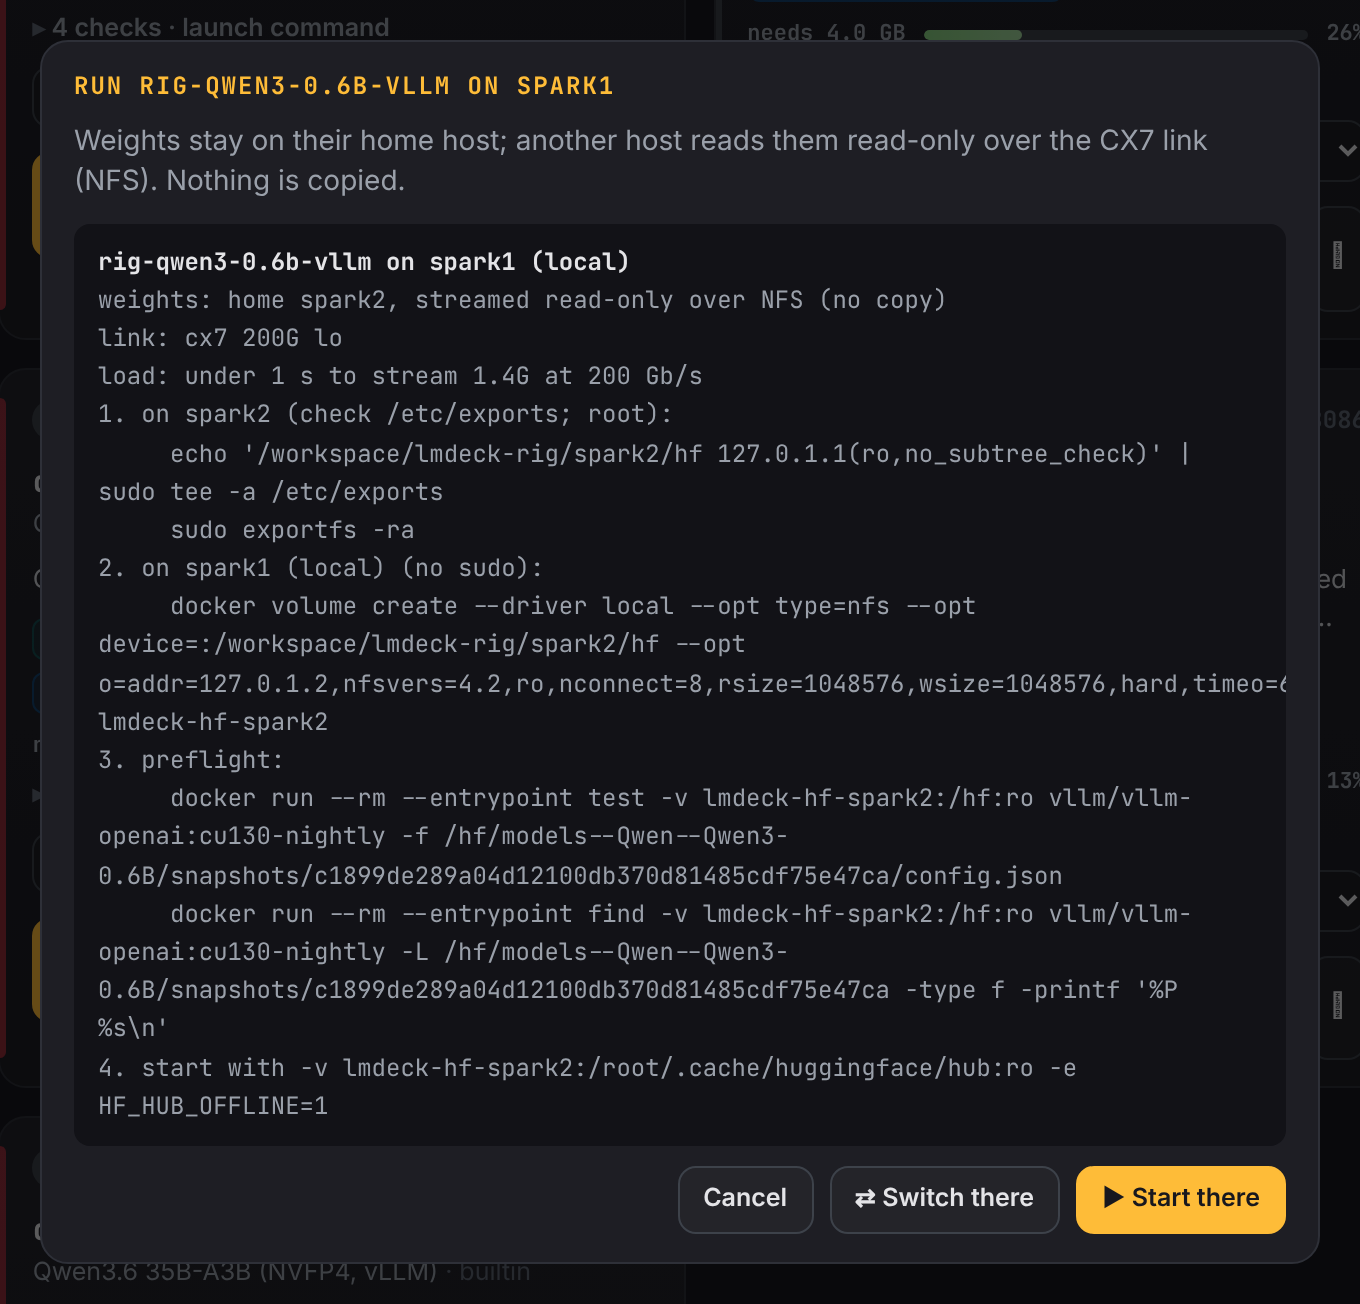
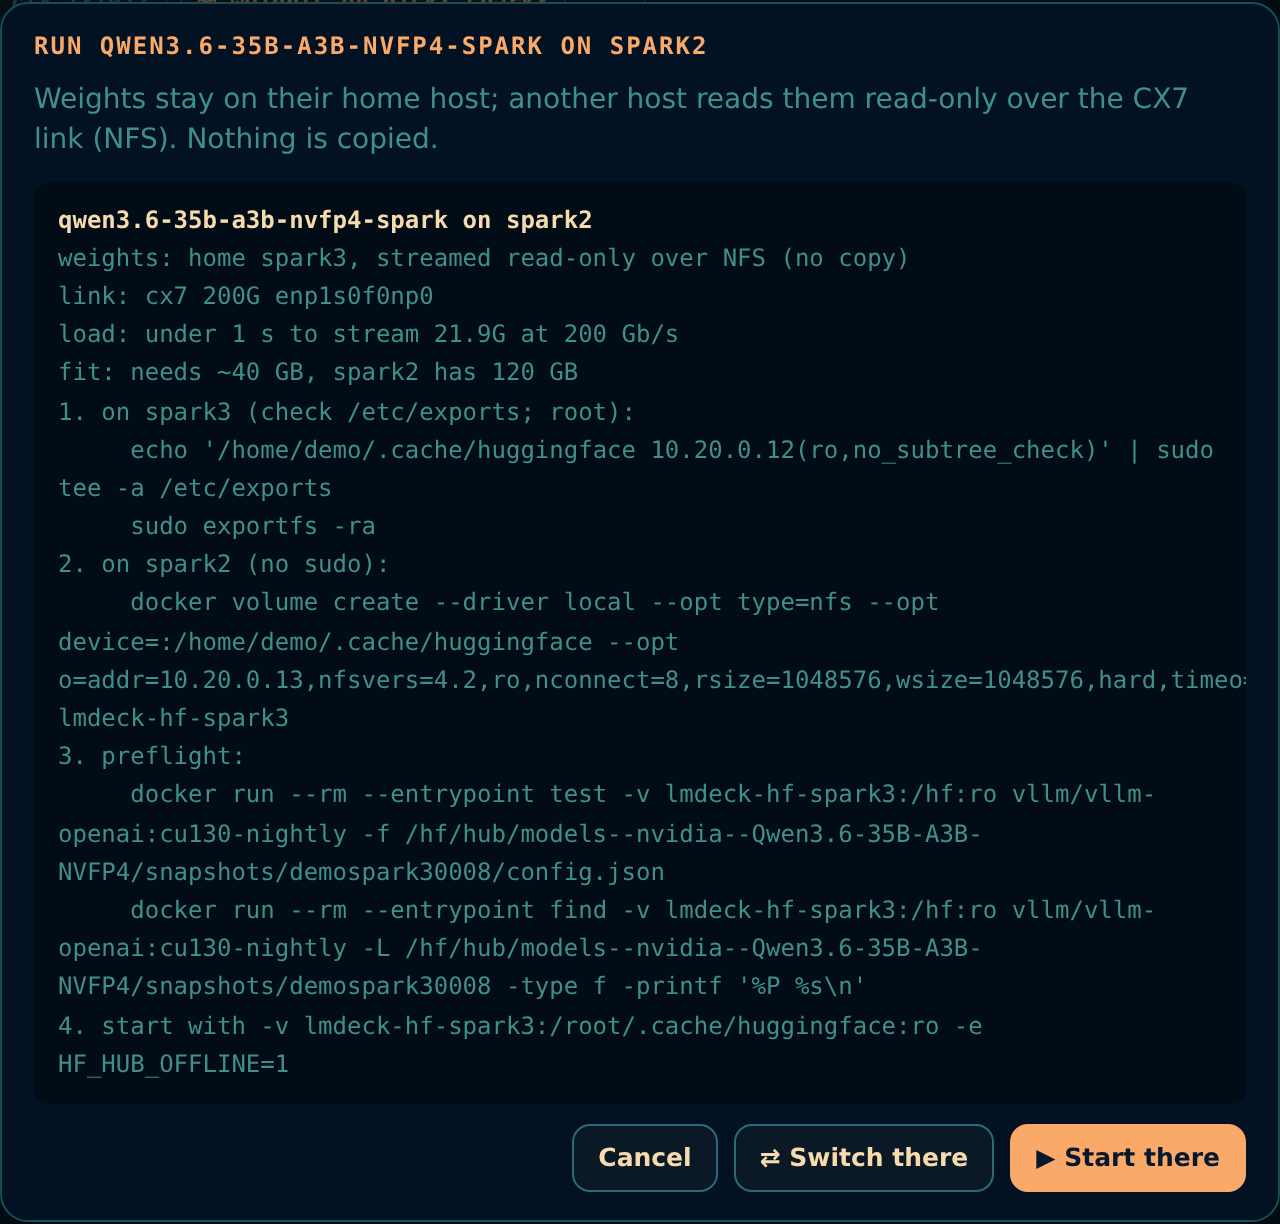
docs(screenshots): refresh the README set in Retro 82
Recapture the TUI and web dashboard screenshots with the new default
theme and a demo deck spanning DeepSeek, GLM, LiquidAI, Qwen,
javierbits, NVIDIA Nemotron, Gemma and GPT-OSS. A small custom stub
server provides the live telemetry and log lines.

Add Library, Stats, Weights, Sources and Doctor shots to the web
dashboard section, and update the demo-data note.

Fix the weights table's host column and hide the unlabeled hourly ticks
in the stats view.

diff --git a/src/web/index.html b/src/web/index.html
@@ -285,6 +285,7 @@ select.runon:hover{border-color:var(--violet)}
 .hours{display:grid;grid-template-columns:repeat(24,1fr);gap:2px;align-items:end;height:110px;padding-top:6px}
 .hours i{display:block;background:linear-gradient(180deg,var(--cyan),color-mix(in srgb,var(--cyan) 40%,transparent));border-radius:3px 3px 0 0;min-height:2px}
 .hourlbl{display:grid;grid-template-columns:repeat(24,1fr);font:9px var(--mono);color:var(--dim);text-align:center}
+.hourlbl span{visibility:hidden}
 .hourlbl span:nth-child(3n+1){visibility:visible}
 .utable{width:100%;border-collapse:collapse;font:12px var(--mono);table-layout:fixed}
 .utable th,.utable td{padding:5px 8px;border-top:1px solid var(--line);text-align:left;overflow:hidden;text-overflow:ellipsis;white-space:nowrap;max-width:0}
@@ -1658,7 +1659,7 @@ function renderWeights(){
   $("#weightsmeta").textContent = `${models.size} model${models.size === 1 ? "" : "s"} · ${hosts.length} host${hosts.length === 1 ? "" : "s"}${w.demo ? " · DEMO DATA" : ""}${w.at ? " · indexed " + ago(w.at) + " ago" : ""}`;
   $("#weightstable").innerHTML = models.size ? `<div class="tablewrap"><table class="utable"><tr><th style="width:30%">model</th><th style="width:16%">host</th><th style="width:11%">size</th><th style="width:10%">kind</th><th>path</th></tr>` +
     [...models.values()].map(m => m.rows.map((r, i) => `<tr><td class="${i ? "" : "n"}" title="${esc(m.model)}">${i ? "" : esc(m.model)}</td>
-      <td>${r.size ? (r.size < 1073741824 ? Math.round(r.size / 1048576) + " MB" : gb(r.size / 1073741824)) : "?"}</td><td>${esc(r.kind || "")}</td><td title="${esc(r.path || "")}">${esc(r.path || "")}</td></tr>`).join("")).join("") + `</table></div>`
+      <td>${esc(r.host)}</td><td>${r.size ? (r.size < 1073741824 ? Math.round(r.size / 1048576) + " MB" : gb(r.size / 1073741824)) : "?"}</td><td>${esc(r.kind || "")}</td><td title="${esc(r.path || "")}">${esc(r.path || "")}</td></tr>`).join("")).join("") + `</table></div>`
     : `<div class="empty">No weights indexed yet.<br><span class="dim">Run <span class="mono">lmdeck weights</span> or pull a recipe.</span></div>`;
 }
 $("#weightsrefresh").onclick = () => refreshWeights(true);

diff --git a/README.md b/README.md
@@ -385,6 +385,12 @@ from a CDN.
 
 ![web dashboard with the live log drawer](docs/screenshots/web-logs.png)
 
+| | |
+|---|---|
+| ![Library: the recipe index, install and add](docs/screenshots/web-library.png) | ![Stats: recorded token usage](docs/screenshots/web-stats.png) |
+| ![Weights: which host holds which checkpoint](docs/screenshots/web-weights.png) | ![Sources: add, update and remove recipe repos](docs/screenshots/web-sources.png) |
+| ![Doctor: hardware, engines, recipe errors and harness settings](docs/screenshots/web-doctor.png) | |
+
 Across machines (details in [docs/MULTIHOST.md](docs/MULTIHOST.md)): host cards
 have `≡` logs and `■` stop per model and a **run here** picker; recipe cards
 show **⛁ weights on disk: …**, `×N nodes` with the start order for multi-node
@@ -394,8 +400,8 @@ section draws the hosts and their CX7 / LAN / Tailscale links as an SVG.
 
 | | |
 |---|---|
-| ![run on another host: the NFS plan (single-VM test rig)](docs/screenshots/web-run-on.png) | ![topology switch8 DEMO DATA](docs/screenshots/web-topology-switch8.png) |
-| ![host cards with remote stop / logs (test rig)](docs/screenshots/web-hosts-controls.png) | ![TUI topology switch8 DEMO DATA](docs/screenshots/tui-topology-switch8.png) |
+| ![run on another host: the NFS plan (demo data)](docs/screenshots/web-run-on.png) | ![topology switch8 DEMO DATA](docs/screenshots/web-topology-switch8.png) |
+| ![host cards with remote logs and stop (demo data)](docs/screenshots/web-hosts-controls.png) | ![TUI topology switch8 DEMO DATA](docs/screenshots/tui-topology-switch8.png) |
 
 > [!WARNING]
 > **Binding to anything other than localhost (for example `--host 0.0.0.0`)
@@ -459,8 +465,8 @@ curl -s -X POST -H 'X-Lmdeck: 1' localhost:7979/api/switch/qwen3-4b-gguf
 curl -N localhost:7979/api/logs/qwen3-4b-gguf/stream
 ```
 
-The screenshots come from a CPU-only Linux VM. The running recipe is a small
-`custom` stub server, and its log lines are synthetic.
+The screenshots use `LMDECK_DEMO=1` (synthetic telemetry and hosts) and a demo
+deck with recipes from several labs; see [Demo mode](#demo-mode).
 
 ## Hosts and telemetry
 
@@ -538,11 +544,13 @@ container isn't in lmdeck's process tree.
 "spark1", spark2 (busy), spark3 (idle) and an offline Mac. It exists for
 screenshots and UI work. The TUI header, the Hosts strip, `lmdeck host list`,
 the dashboard and every JSON document (`"demo": true`) say **DEMO DATA**
-while it's on. The Hosts and deck-telemetry screenshots above, and the
-dashboard one below, were taken in demo mode on a CPU-only VM. The fit
-column and Machine panel there still describe that VM.
+while it's on. The screenshots use demo mode with a demo deck spanning
+DeepSeek, GLM, LiquidAI, Qwen, javierbits, NVIDIA Nemotron, Gemma and GPT-OSS,
+plus a small `custom` stub server whose log lines are synthetic. The fit
+column and Machine panel describe the Spark-class machine they were captured
+on.
 
-![web dashboard hosts row (LMDECK_DEMO=1 data)](docs/screenshots/web-hosts.png)
+![Hosts tab (LMDECK_DEMO=1 data)](docs/screenshots/web-hosts.png)
 
 ## Commands
 

diff --git a/docs/HANDOVER.md b/docs/HANDOVER.md
@@ -145,7 +145,6 @@ Development happened on a CPU-only Linux VM. Nothing has been tested on a real S
    - Docker recipes have no RSS.
    - MLX and LM Studio have no tok/s.
    - Tiny local models show "0M" in the size column.
-   - The older screenshots (`tui-deck`, `tui-machine`, `web-dashboard`) still show the 3-tab header.
 7. **Launch prep:** Javier plans a public launch of lmdeck and is growing his X audience (@javierbits, formerly @jvr0x) for it. The repo is private until he decides. Don't make it public, publish to crates.io, or post anything without his go-ahead.
 
 ## Working rules
